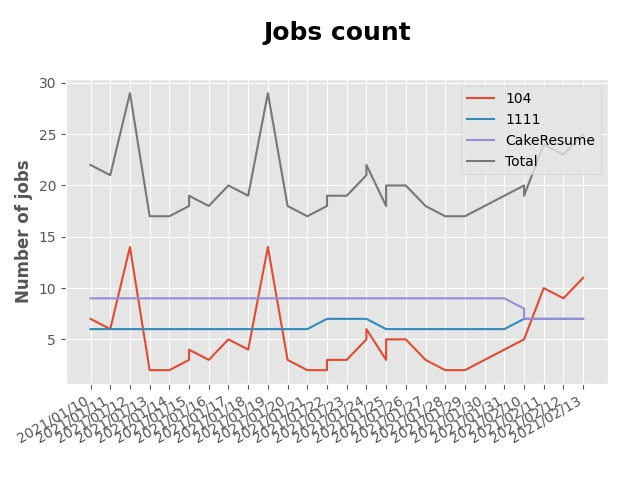
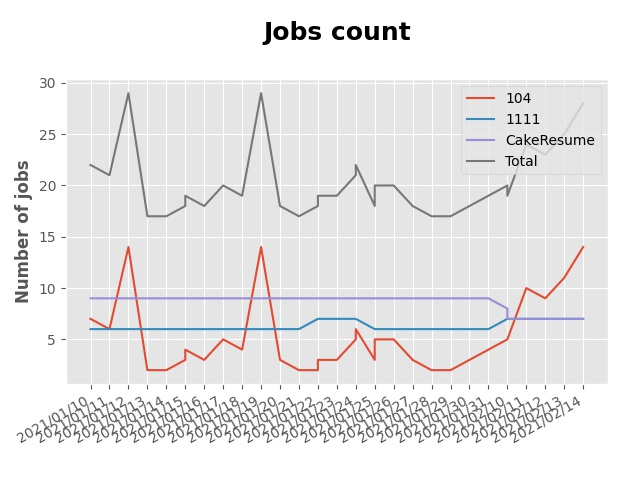
fix(a1111.py): fix 1111 date error

Changed region(s): [[0.0938, 0.1875, 0.9062, 0.9375]]

diff --git a/crawlers/test.py b/crawlers/test.py
@@ -2,12 +2,13 @@ import re
 import requests
 import json
 import pandas as pd
+
 # https://www.1111.com.tw/search/job?ks=flask&fs=1&page=1
 from bs4 import BeautifulSoup
 
 from config import configs
 
-keyword = 'flask'
+keyword = "flask"
 headers = {
     # 'Referer':'https://www.104.com.tw/',
     "User-Agent": "Mozilla/5.0 (Macintosh Intel Mac OS X 10_13_4) AppleWebKit/537.36 (KHTML, like Gecko) Chrome/66.0.3359.181 Safari/537.36"
@@ -18,25 +19,25 @@ page = 1
 
 for config in configs:
     # while True:
-        # if break_flag:
-            # break
+    # if break_flag:
+    # break
 
     resp = requests.get(
         url=config["platform_url"].format(keyword, page), headers=headers
     )
     soup = BeautifulSoup(resp.text, "html.parser")
-    
+
     # job_list =  soup.find("ul",class_="list-result").find_all("script")
-    job_list =  soup.find_all("ul",class_="si-item")
+    job_list = soup.find_all("ul", class_="si-item")
 
     for job in job_list:
-        print('='*10)
-        #title
-        print(job.find(class_="date").text.replace("更新時間：",""))
+        print("=" * 10)
+        # title
+        print(job.find(class_="date").text.replace("更新時間：", ""))
         print(job.find("a").get("title"))
         print(job.find("a").get("href"))
-        print(job.find(class_="it-md").find('a',class_="d-block organ").text)
-        print(job.find(class_="it-md").find('a',class_="d-block organ").get("href"))
+        print(job.find(class_="it-md").find("a", class_="d-block organ").text)
+        print(job.find(class_="it-md").find("a", class_="d-block organ").get("href"))
         # print(job.text)
         # print(data['name'])
     #     if not re.match(f".*{keyword}.*", str(job), re.IGNORECASE):
@@ -50,21 +51,19 @@ for config in configs:
     #     print(eval('job.get("data-job-name")'))
     #     print(job.find_all('a', class_='js-job-link')[0]['href'].replace("//",""))
 
-
     #     print(job.find_all("a")[1].get("href").replace("//",""))
     #     print(job.find("span",class_="b-tit__date").text.strip())
 
+    # company_name = eval(config["company_name_element"])
+    # company_list = eval(config["company_link_element"])
+    # job_name = eval(config["job_name_element"]).replace("|", "/")
+    # job_link = eval(config["job_link_element"])
+    # job_dict = {
+    #     "company_name": f"[{company_name}]({company_list})",
+    #     "platform_name": config["platform_name"],
+    #     "job_name": f"[{job_name}]({job_link})",
+    #     "job_update_time": eval(config["job_update_time_element"]),
 
-        # company_name = eval(config["company_name_element"])
-        # company_list = eval(config["company_link_element"])
-        # job_name = eval(config["job_name_element"]).replace("|", "/")
-        # job_link = eval(config["job_link_element"])
-        # job_dict = {
-        #     "company_name": f"[{company_name}]({company_list})",
-        #     "platform_name": config["platform_name"],
-        #     "job_name": f"[{job_name}]({job_link})",
-        #     "job_update_time": eval(config["job_update_time_element"]),
-        
-        # print(company_name)
+    # print(company_name)
 
-        # break_flag=True
+    # break_flag=True

diff --git a/crawlers/a1111.py b/crawlers/a1111.py
@@ -26,6 +26,8 @@ class A1111(BaseCrawler):
         return job.find(class_="item__job-info--link").get("href")
 
     def update_time(self, job: Tag) -> str:
-        return job.find(class_="item__job-control-datechange").get("data-yyyy")
-        +"-"
-        +job.find(class_="item__job-control-datechange").get("data-mmdd")
+        return (
+            job.find(class_="item__job-control-datechange").get("data-yyyy")
+            + "-"
+            + job.find(class_="item__job-control-datechange").get("data-mmdd")
+        )

diff --git a/README.md b/README.md
@@ -16,32 +16,35 @@
 |  4 | [天下雜誌股份有限公司](https://www.104.com.tw/company/a4hvxa0?jobsource=2018indexpoc)                 | [《天下雜誌群》PHP工程師](https://www.104.com.tw/job/74gvy?jobsource=2018indexpoc)                                                 | 2/09          |
 |  5 | [宇匯知識科技股份有限公司](https://www.104.com.tw/company/18rbx5fk?jobsource=2018indexpoc)              | [購有錢 後端工程師 Backend Engineer](https://www.104.com.tw/job/76g7h?jobsource=2018indexpoc)                                    | 2/12          |
 |  6 | [禾向數位科技有限公司](https://www.104.com.tw/company/1a2x6bl8h8?jobsource=2018indexpoc)              | [Python Backend Engineer](https://www.104.com.tw/job/71i7c?jobsource=2018indexpoc)                                       | 2/09          |
-|  7 | [禾新數位有限公司](https://www.104.com.tw/company/1a2x6bjs3i?jobsource=2018indexpoc)                | [[ CST-2 ] Full Stack Engineer](https://www.104.com.tw/job/76q8f?jobsource=2018indexpoc)                                 | 2/09          |
-|  8 | [紅番茄愛娛樂股份有限公司](https://www.104.com.tw/company/1a2x6bkx4r?jobsource=2018indexpoc)            | [遊戲後端工程師 Back-End Developer](https://www.104.com.tw/job/71ahq?jobsource=2018indexpoc)                                    | 2/09          |
-|  9 | [紅石資訊有限公司](https://www.104.com.tw/company/1a2x6bl8xj?jobsource=2018indexpoc)                | [(後台系統開發)python軟體工程師](https://www.104.com.tw/job/7288s?jobsource=2018indexpoc)                                           | 2/09          |
-| 10 | [美商連科股份有限公司](https://www.104.com.tw/company/1a2x6bk74i?jobsource=2018indexpoc)              | [軟體工程師 (AI System Connectivity)](https://www.104.com.tw/job/6z5mp?jobsource=2018indexpoc)                                | 2/11          |
-| 11 | [英屬開曼群島商萬里雲互聯股份有限公司台灣分公司](https://www.104.com.tw/company/1a2x6bk5cu?jobsource=2018indexpoc) | [Enterprise Solution Architect (Google Cloud Platform) 解決方案架構師](https://www.104.com.tw/job/6c62k?jobsource=2018indexpoc) | 2/11          |
+|  7 | [禾新數位有限公司](https://www.104.com.tw/company/1a2x6bjs3i?jobsource=2018indexpoc)                | [[ S-01 ] Developer 開發工程師 (Python)](https://www.104.com.tw/job/6rrkz?jobsource=2018indexpoc)                             | 2/14          |
+|  8 | [禾新數位有限公司](https://www.104.com.tw/company/1a2x6bjs3i?jobsource=2018indexpoc)                | [[ CST-2 ] Full Stack Engineer](https://www.104.com.tw/job/76q8f?jobsource=2018indexpoc)                                 | 2/09          |
+|  9 | [紅番茄愛娛樂股份有限公司](https://www.104.com.tw/company/1a2x6bkx4r?jobsource=2018indexpoc)            | [遊戲後端工程師 Back-End Developer](https://www.104.com.tw/job/71ahq?jobsource=2018indexpoc)                                    | 2/09          |
+| 10 | [紅石資訊有限公司](https://www.104.com.tw/company/1a2x6bl8xj?jobsource=2018indexpoc)                | [(後台系統開發)python軟體工程師](https://www.104.com.tw/job/7288s?jobsource=2018indexpoc)                                           | 2/09          |
+| 11 | [美商美創資通股份有限公司台灣分公司](https://www.104.com.tw/company/1a2x6bjdsb?jobsource=2018indexpoc)       | [資深Web後端工程師](https://www.104.com.tw/job/6y6f0?jobsource=2018indexpoc)                                                    | 2/14          |
+| 12 | [美商美創資通股份有限公司台灣分公司](https://www.104.com.tw/company/1a2x6bjdsb?jobsource=2018indexpoc)       | [資深後端系統工程師 (python)](https://www.104.com.tw/job/4mfzt?jobsource=2018indexpoc)                                            | 2/14          |
+| 13 | [美商連科股份有限公司](https://www.104.com.tw/company/1a2x6bk74i?jobsource=2018indexpoc)              | [軟體工程師 (AI System Connectivity)](https://www.104.com.tw/job/6z5mp?jobsource=2018indexpoc)                                | 2/14          |
+| 14 | [英屬開曼群島商萬里雲互聯股份有限公司台灣分公司](https://www.104.com.tw/company/1a2x6bk5cu?jobsource=2018indexpoc) | [Enterprise Solution Architect (Google Cloud Platform) 解決方案架構師](https://www.104.com.tw/job/6c62k?jobsource=2018indexpoc) | 2/11          |
 
 ### Platform - 1111
 
 
-|    | company                                                  | job_title                                                              |   update_time |
-|---:|:---------------------------------------------------------|:-----------------------------------------------------------------------|--------------:|
-|  1 | [國立臺灣大學](https://www.1111.com.tw/corp/54510630/)         | [臺灣大學心理學系黃從仁老師誠徵網站前/後端全職/兼職工程師](https://www.1111.com.tw/job/92210744/) |          2021 |
-|  2 | [展市華科技有限公司](https://www.1111.com.tw/corp/72520572/)      | [全端網頁工程師](https://www.1111.com.tw/job/91503317/)                       |          2021 |
-|  3 | [展市華科技有限公司](https://www.1111.com.tw/corp/72520572/)      | [後端開發工程師](https://www.1111.com.tw/job/92133533/)                       |          2021 |
-|  4 | [展市華科技有限公司](https://www.1111.com.tw/corp/72520572/)      | [網頁工程師](https://www.1111.com.tw/job/91605448/)                         |          2021 |
-|  5 | [諾客網科股份有限公司](https://www.1111.com.tw/corp/73092077/)     | [Python 工程師](https://www.1111.com.tw/job/92163911/)                    |          2021 |
-|  6 | [長青資訊股份有限公司](https://www.1111.com.tw/corp/71694811/)     | [後端工程師](https://www.1111.com.tw/job/85012186/)                         |          2021 |
-|  7 | [鼎漢國際工程顧問股份有限公司](https://www.1111.com.tw/corp/51468466/) | [後端工程師](https://www.1111.com.tw/job/85884563/)                         |          2021 |
+|    | company                                                  | job_title                                                              | update_time   |
+|---:|:---------------------------------------------------------|:-----------------------------------------------------------------------|:--------------|
+|  1 | [國立臺灣大學](https://www.1111.com.tw/corp/54510630/)         | [臺灣大學心理學系黃從仁老師誠徵網站前/後端全職/兼職工程師](https://www.1111.com.tw/job/92210744/) | 2021-02-08    |
+|  2 | [展市華科技有限公司](https://www.1111.com.tw/corp/72520572/)      | [全端網頁工程師](https://www.1111.com.tw/job/91503317/)                       | 2021-02-11    |
+|  3 | [展市華科技有限公司](https://www.1111.com.tw/corp/72520572/)      | [後端開發工程師](https://www.1111.com.tw/job/92133533/)                       | 2021-02-11    |
+|  4 | [展市華科技有限公司](https://www.1111.com.tw/corp/72520572/)      | [網頁工程師](https://www.1111.com.tw/job/91605448/)                         | 2021-02-11    |
+|  5 | [諾客網科股份有限公司](https://www.1111.com.tw/corp/73092077/)     | [Python 工程師](https://www.1111.com.tw/job/92163911/)                    | 2021-02-08    |
+|  6 | [長青資訊股份有限公司](https://www.1111.com.tw/corp/71694811/)     | [後端工程師](https://www.1111.com.tw/job/85012186/)                         | 2021-02-11    |
+|  7 | [鼎漢國際工程顧問股份有限公司](https://www.1111.com.tw/corp/51468466/) | [後端工程師](https://www.1111.com.tw/job/85884563/)                         | 2021-02-12    |
 
 ### Platform - CakeResume
 
 
 |    | company                                                                               | job_title                                                                                                                           | update_time          |
 |---:|:--------------------------------------------------------------------------------------|:------------------------------------------------------------------------------------------------------------------------------------|:---------------------|
-|  1 | [Cathay Financial Holdings 國泰金控](https://www.cakeresume.com/companies/cathayholdings) | [數位研發專業人員-Python Software Engineer(數數發中心, DDT)](https://www.cakeresume.com/companies/cathayholdings/jobs/f5c69a)                    | Updated a month ago  |
-|  2 | [Proto 新語科技有限公司](https://www.cakeresume.com/companies/proto-cx)                       | [Backend Developer (Python)](https://www.cakeresume.com/companies/proto-cx/jobs/backend-developer-python)                           | Updated 17 hours ago |
+|  1 | [Cathay Financial Holdings 國泰金控](https://www.cakeresume.com/companies/cathayholdings) | [數位研��專業人員-Python Software Engineer(數數發中心, DDT)](https://www.cakeresume.com/companies/cathayholdings/jobs/f5c69a)                   | Updated a month ago  |
+|  2 | [Proto 新語科技有限公司](https://www.cakeresume.com/companies/proto-cx)                       | [Backend Developer (Python)](https://www.cakeresume.com/companies/proto-cx/jobs/backend-developer-python)                           | Updated a day ago    |
 |  3 | [紅門互動股份有限公司](https://www.cakeresume.com/companies/eagleeye-5332f1)                    | [Python Flask網站開發工程師(台北)](https://www.cakeresume.com/companies/eagleeye-5332f1/jobs/python-flask-web-development-engineer-taipei)   | Updated 5 months ago |
 |  4 | [紅門互動股份有限公司](https://www.cakeresume.com/companies/eagleeye-5332f1)                    | [Python Flask網站研發工程師(台中)](https://www.cakeresume.com/companies/eagleeye-5332f1/jobs/python-flask-website-r-amp-d-engineer-taichung) | Updated 9 months ago |
 |  5 | [菜蟲農食股份有限公司](https://www.cakeresume.com/companies/tsaitung)                           | [後端工程師 (初階、資深)](https://www.cakeresume.com/companies/tsaitung/jobs/back-end-engineer-initial-senior)                                | Updated 2 months ago |
